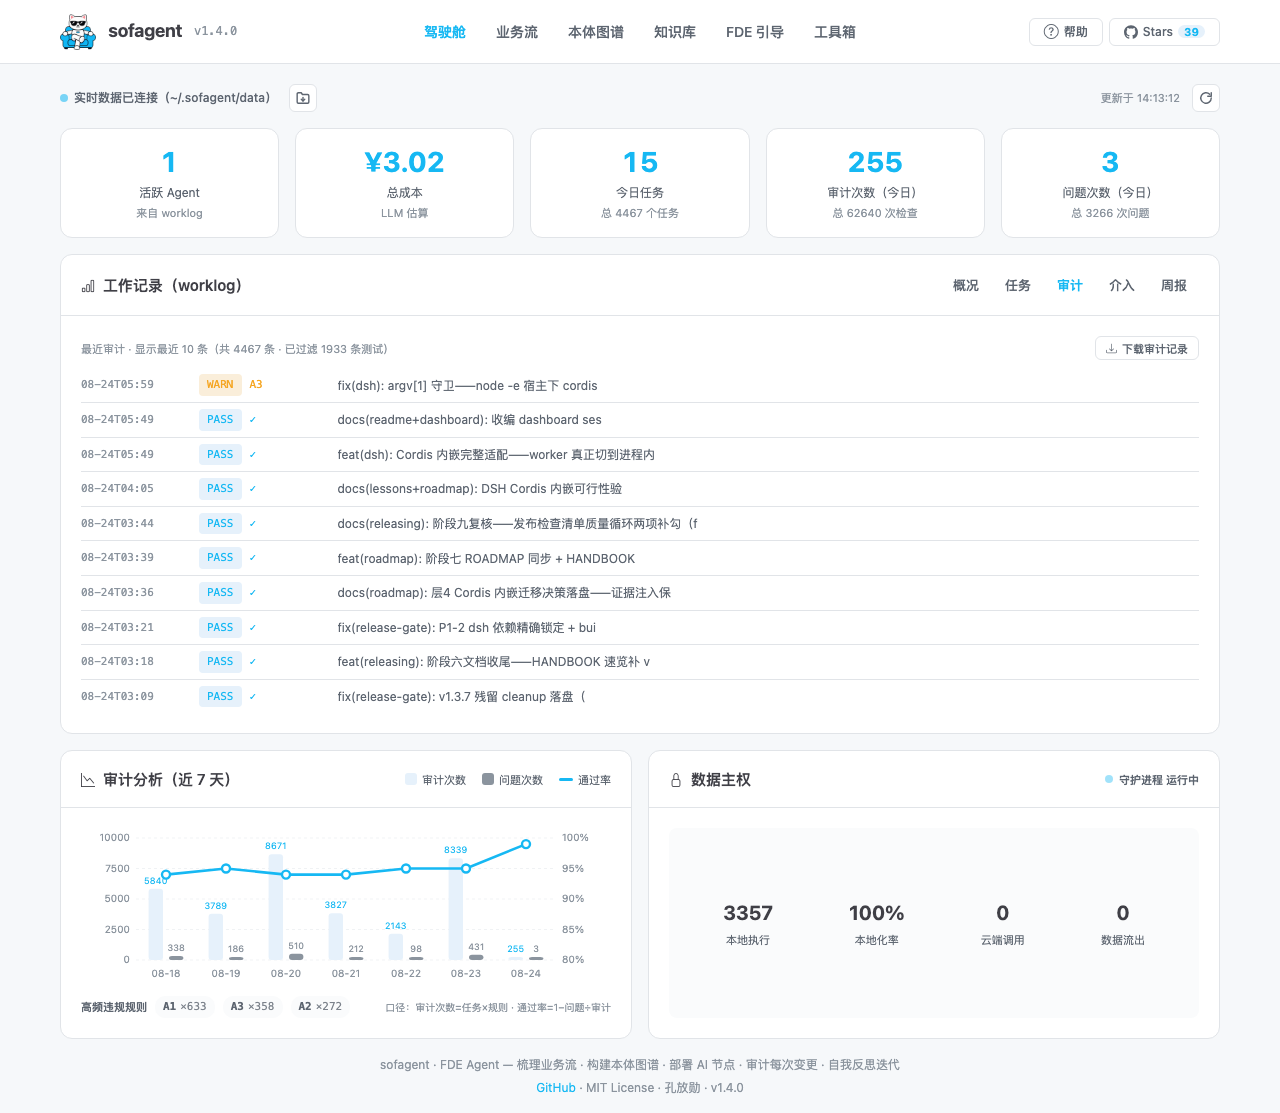
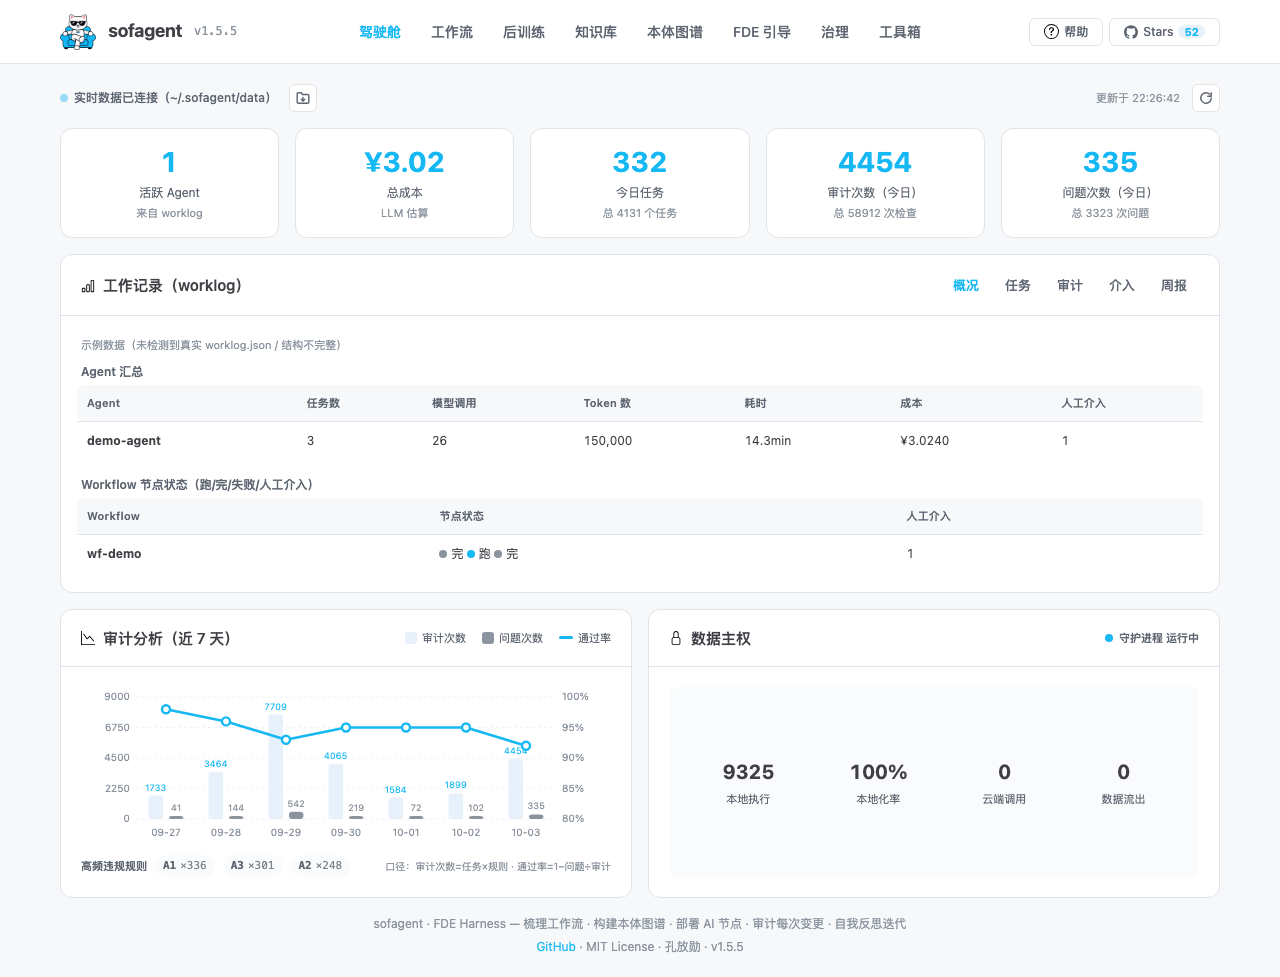
docs(assets): dashboard 全页截图重制 + caption 版本对齐 v1.5.5（F4 收口）
截图重制（F4 唯一待授权二进制项，本轮用户明确要求 ⇒ 授权成立）：
- **全页**：1280×977（内容末行实测 952 + 24px 留白）——旧资产虽为 1280×1113 但**内容本身已双陈旧**
  （页内角标 v1.4.0 · 数据止于 08-24）；此前另有一版仅 1280×577（视口裁切 = 用户所指「一半」）
- **版本**：页内角标与页脚均为 **v1.5.5**（与 `package.json` 一致，`check-version` 锁死口径）
- **数据**：当期（审计 4454 次 / 数据主权 9325 本地执行 / 图表 09-27→10-03）
- 截图路径：仓库态服务（`node tools/dashboard/serve-dashboard.mjs`）+ 缓存 Chromium 直连
  `--headless=new --screenshot --window-size=1280,6000` + PIL 按「最长同色行后缀」裁边

版本一致性（caption 声称 vs 页面实际）：
- `README.md` / `README.en.md` 的 dashboard caption：`v1.5.6` → **`v1.5.5`**
  —— 原值不可能为真：`tools/check/check-version.sh:833-843` **锁死** dashboard 两处角标 ==
  `package.json` 版本（现 1.5.5），页面无法合法显示 1.5.6；本笔**不改版本号**（发版动作另走 SOP）

site 侧同步（安装态 · 非仓库文件，不随本提交）：
- `~/.sofagent/web/dashboard.html` 由 **v1.5.1**（9/23）刷为 **v1.5.5**（旧版备份为
  `dashboard.html.bak-20261003`）—— 这是「用户看到的页面版本号没升级」的直接原因：
  `serve-dashboard.mjs` 优先服安装态副本，仓库态仅回退

验证：check-version rc=0 · check-dashboard rc=0 · check-docs rc=0 · check-readme-parity rc=0 ·
doc-discipline rc=0 · doc-score 未通过项 0

已知未修（不伪造数据）：`~/.sofagent/data/dashboard/worklog.json` 缺失 ⇒ 工作记录卡片走
「示例数据」降级（全仓无该文件生成器，属外部流程提供的数据缺口，非本仓可修）

diff --git a/README.md b/README.md
@@ -242,7 +242,7 @@ sofagent audit --doctor    # 验证环境（可选）
 
 ## 使用
 
-<p align="center"><img src="docs/assets/dashboard.png" alt="sofagent Dashboard 驾驶舱" width="100%" /><br/><sub>Dashboard 驾驶舱（单文件 HTML · 截图版本 v1.5.6）：规则通过率、审计任务、违规趋势——AI 在干什么，一眼看清。<br>（界面演进见 CHANGELOG，实际以安装态为准）</sub></p>
+<p align="center"><img src="docs/assets/dashboard.png" alt="sofagent Dashboard 驾驶舱" width="100%" /><br/><sub>Dashboard 驾驶舱（单文件 HTML · 截图版本 v1.5.5）：规则通过率、审计任务、违规趋势——AI 在干什么，一眼看清。<br>（界面演进见 CHANGELOG，实际以安装态为准）</sub></p>
 
 > 📊 **Dashboard 有三个入口，各归各位**：
 >

diff --git a/README.en.md b/README.en.md
@@ -309,7 +309,7 @@ Enterprise users who just want the FDE methodology for mapping business workflow
 
 ## Usage
 
-<p align="center"><img src="docs/assets/dashboard.png" alt="sofagent Dashboard cockpit" width="100%" /><br/><sub>Dashboard cockpit (single-file HTML · screenshot shows v1.5.6): rule pass
+<p align="center"><img src="docs/assets/dashboard.png" alt="sofagent Dashboard cockpit" width="100%" /><br/><sub>Dashboard cockpit (single-file HTML · screenshot shows v1.5.5): rule pass
 rate, audit tasks, violation trends — see at a glance what the AI is doing.<br>(See CHANGELOG for UI evolution;
 the installed UI is the source of truth.)</sub></p>
 
